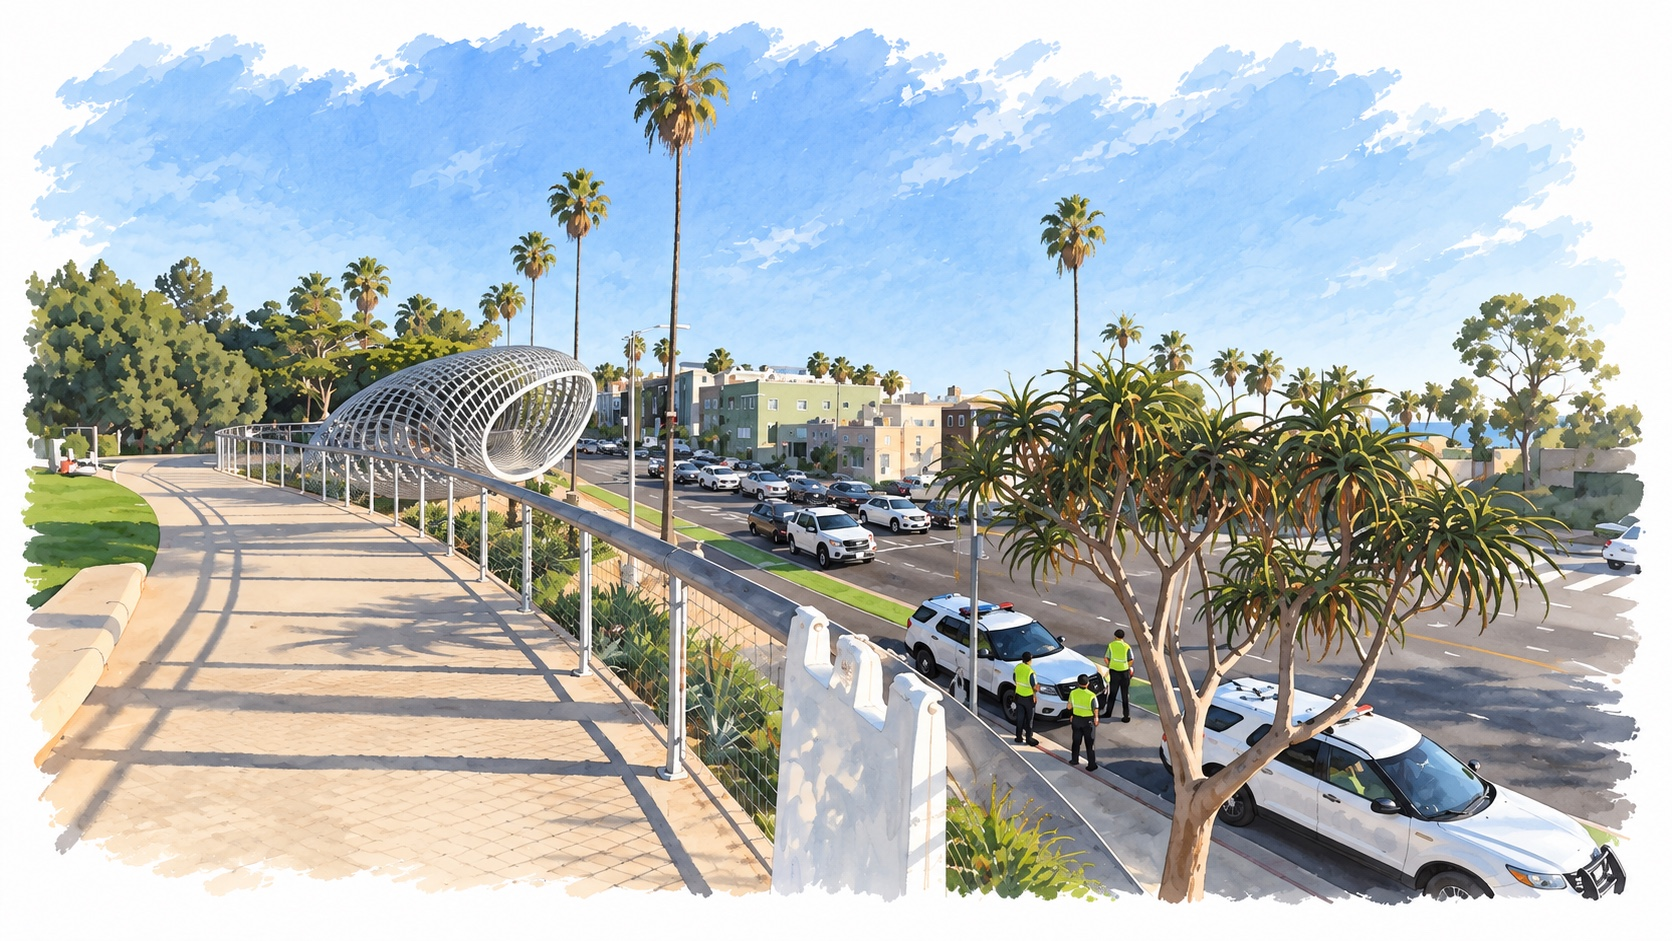
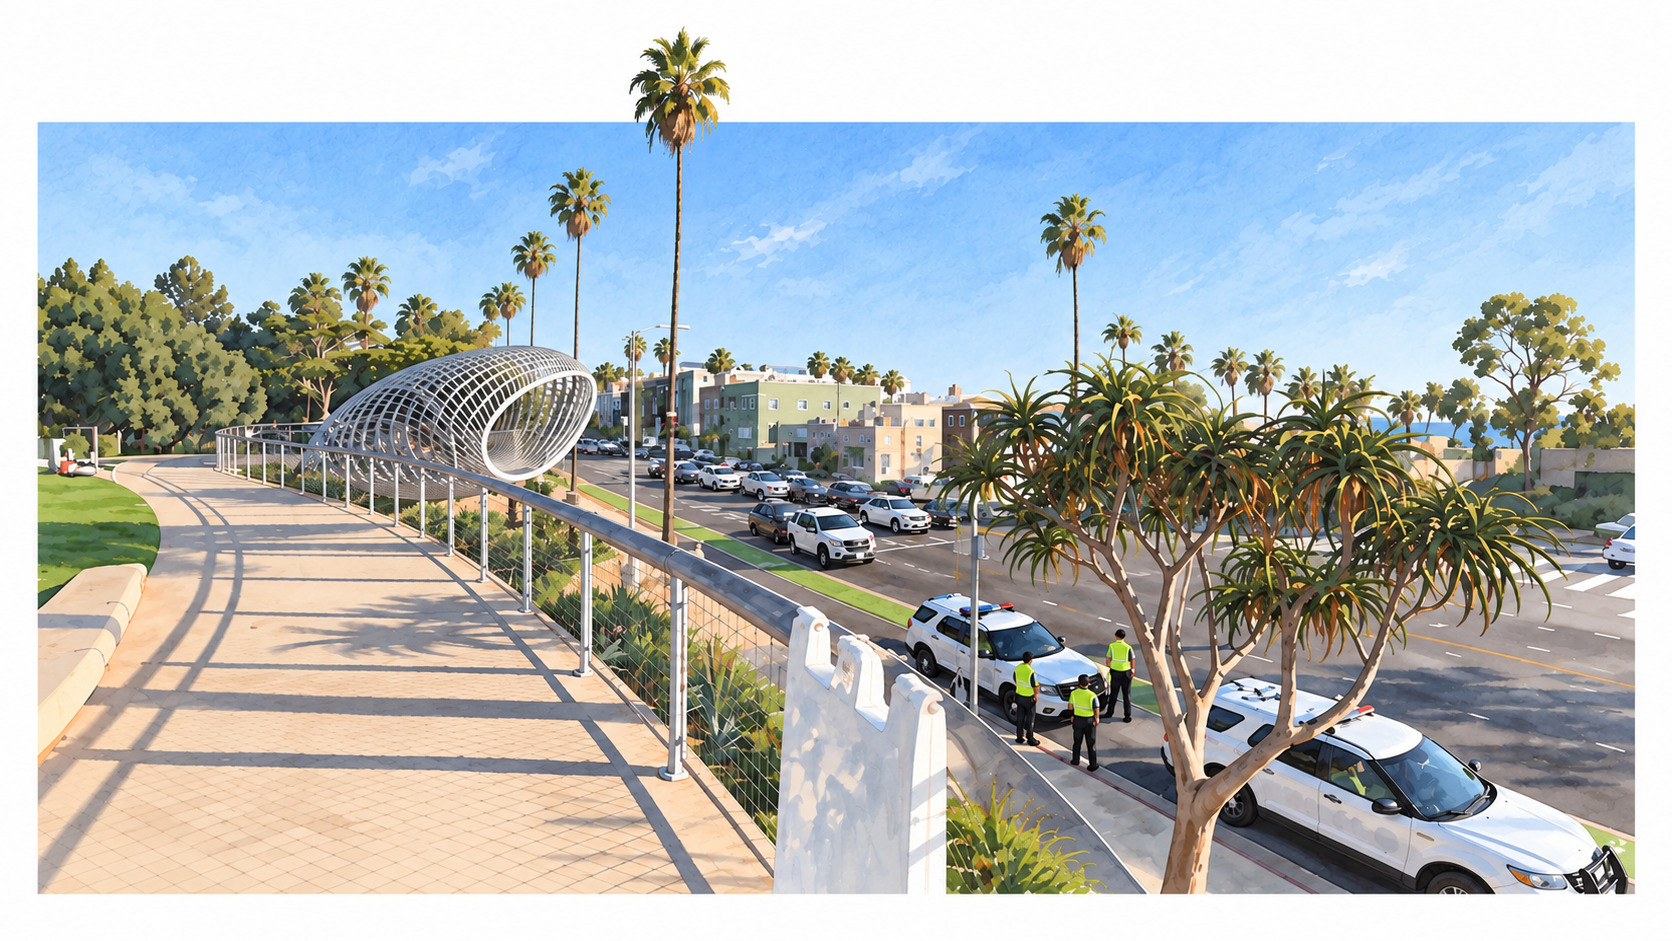
Replace Tongva viewpoint thumbnails with clean collage edges

diff --git a/index.html b/index.html
@@ -1254,7 +1254,7 @@ function ProjectDetail({ project, onBack, voted, counts, onToggle }) {
           transform: hovered ? 'scale(1.005)' : 'scale(1)',
         }}
       >
-        <ProjectThumb key={activeCapture?.vrId || project.id} project={activeCapture ? {...project, thumb:activeCapture.thumb || `https://i.ytimg.com/vi/${activeCapture.vrId}/hqdefault.jpg`, thumbIllustration:!!activeCapture.thumb, fallbackThumb:project.thumb, title:activeCapture.label} : project} size="lg" />
+        <ProjectThumb key={activeCapture?.vrId || project.id} project={activeCapture ? {...project, thumb:(activeCapture.thumb ? activeCapture.thumb + (project.id === 22 ? "?v=clean-edge-20261004" : "") : `https://i.ytimg.com/vi/${activeCapture.vrId}/hqdefault.jpg`), thumbIllustration:!!activeCapture.thumb, fallbackThumb:project.thumb, title:activeCapture.label} : project} size="lg" />
         <div style={{
           position: 'absolute', inset: 0, display: 'flex',
           alignItems: 'center', justifyContent: 'center',
